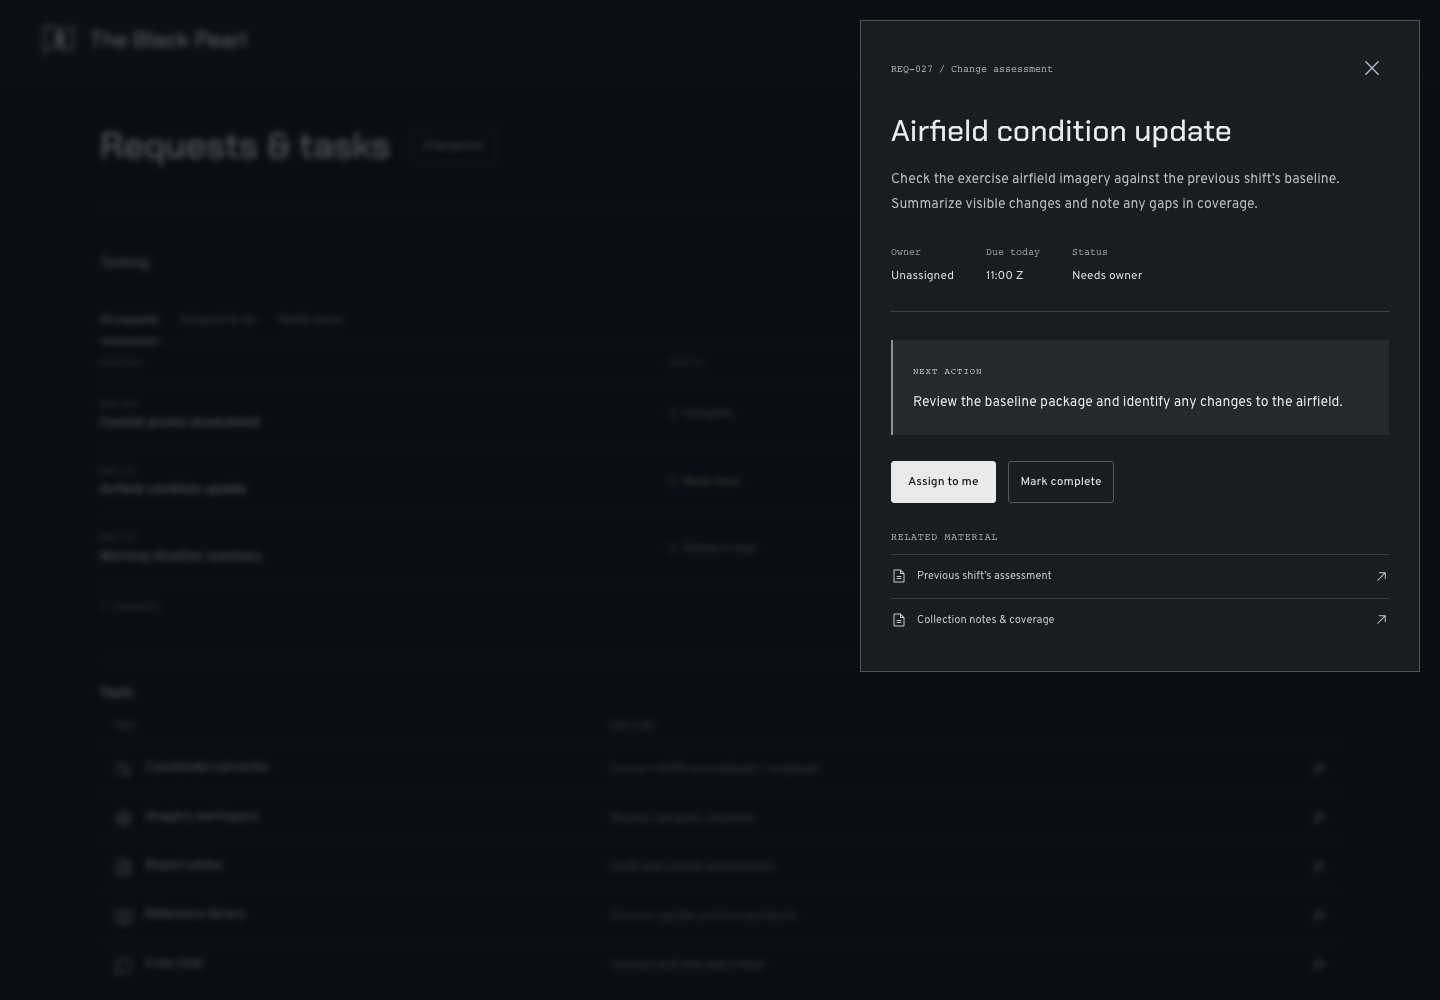
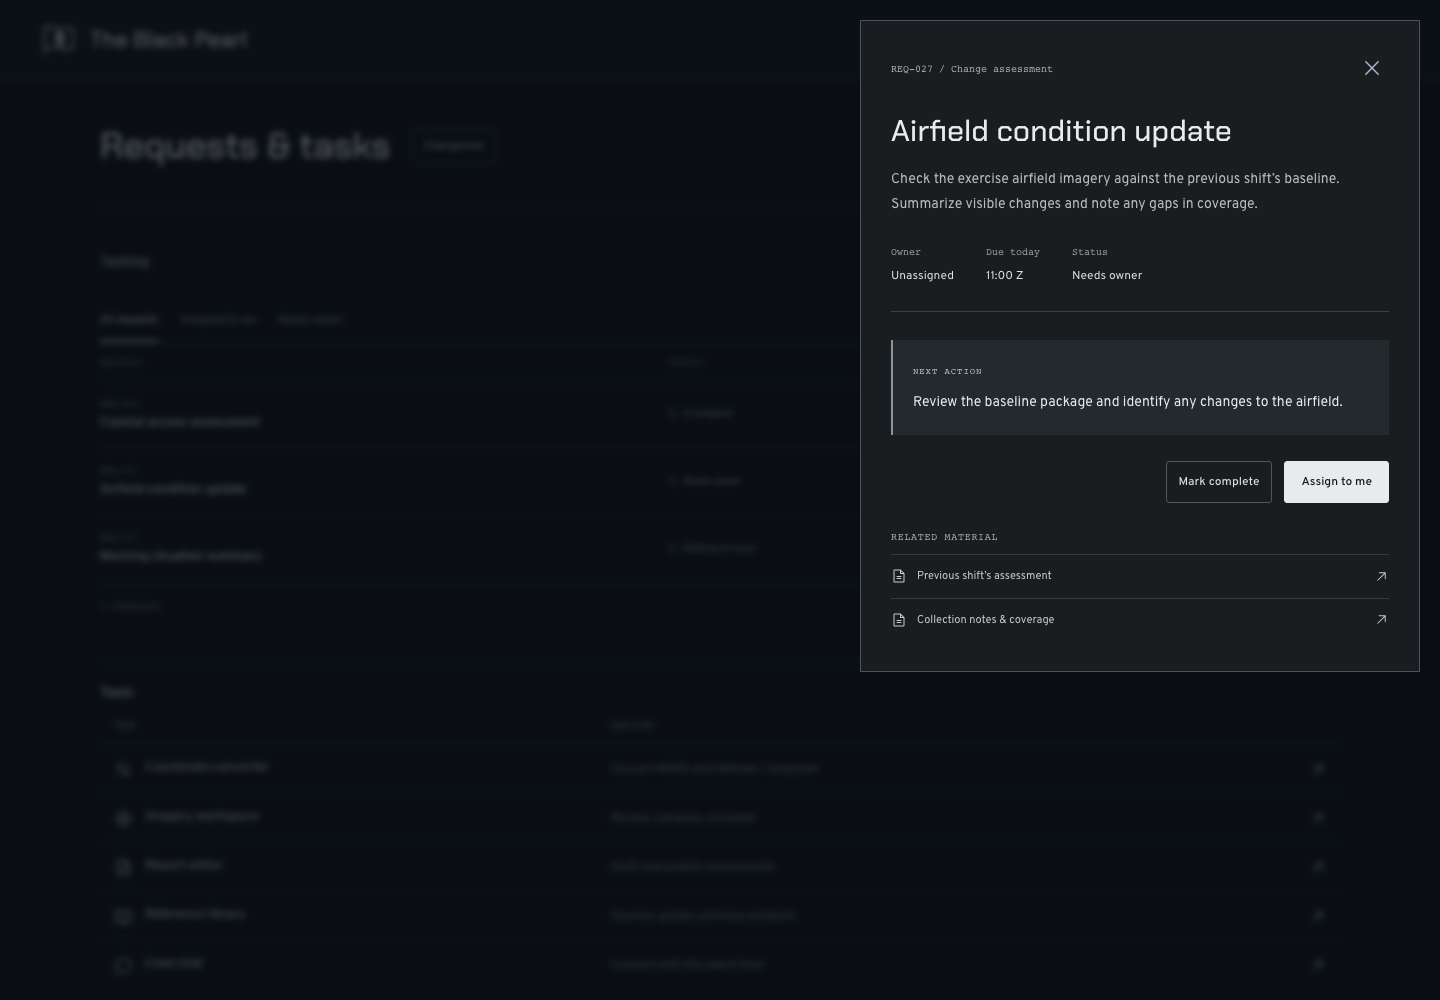
Update Black Pearl task copy, map hover, and action alignment

Changed region(s): [[0.8125, 0.434, 0.9688, 0.527], [0.5938, 0.434, 0.75, 0.527]]

diff --git a/src/components/studies/crew.tsx b/src/components/studies/crew.tsx
@@ -7,7 +7,7 @@ import styles from "./crew.module.css";
 import { CrewClocks, CrewUtilities } from "./crew-utilities";
 
 const requests = [
-  {id:"REQ-024",title:"Coastal access assessment",type:"Imagery review",due:"09:30",owner:"You",status:"In progress",description:"Review the latest imagery package for changes to road access following the exercise weather event. Flag areas where coverage is incomplete.",next:"Compare the two collection windows and attach an annotated summary.",tool:"Imagery workspace"},
+  {id:"REQ-024",title:"Coastal access assessment",type:"Imagery review",due:"09:30",owner:"You",status:"In progress",description:"Review the latest imagery package for changes to road access following the exercise weather event. Flag areas where coverage is incomplete.",next:"Review FMV imagery of the marked coastal area for debris or flooding that could block road access.",tool:"Imagery workspace"},
   {id:"REQ-027",title:"Airfield condition update",type:"Change assessment",due:"11:00",owner:"Unassigned",status:"Needs owner",description:"Check the exercise airfield imagery against the previous shift’s baseline. Summarize visible changes and note any gaps in coverage.",next:"Review the baseline package and identify any changes to the airfield.",tool:"Imagery workspace"},
   {id:"REQ-021",title:"Morning situation summary",type:"Reporting",due:"12:00",owner:"You",status:"Waiting on input",description:"Consolidate the crew’s observations into the morning exercise summary. One supporting assessment is still outstanding.",next:"Review the current draft and confirm the outstanding input with the crew lead.",tool:"Report editor"},
 ];
@@ -51,7 +51,7 @@ export function CrewStudy() {
           {tab==="Overview"&&<>
             <section className={styles.nextTask} aria-labelledby="next-task-title">
               <div className={styles.sectionHead}><h2 id="next-task-title">Up next</h2></div>
-              {nextRequest?<><div className={styles.nextTaskTitle}><h3>{nextRequest.title}</h3><span>Due {nextRequest.due} Z</span></div><p>{nextRequest.next}</p><div className={styles.requestActions}><button className={styles.primary} onClick={()=>setSelected(requests.indexOf(nextRequest))}>Open request<ArrowRight size={16} aria-hidden="true"/></button><button className={styles.secondary} onClick={()=>setTab("Requests")}>All requests</button></div></>:<><h3>You’re caught up.</h3><p>Review the request list for work waiting on input or an owner.</p></>}
+              {nextRequest?<><div className={styles.nextTaskTitle}><h3>{nextRequest.title}</h3><span>Due {nextRequest.due} Z</span></div><p>{nextRequest.next}</p><div className={styles.requestActions}><button className={styles.secondary} onClick={()=>setTab("Requests")}>All requests</button><button className={styles.primary} onClick={()=>setSelected(requests.indexOf(nextRequest))}>Open request<ArrowRight size={16} aria-hidden="true"/></button></div></>:<><h3>You’re caught up.</h3><p>Review the request list for work waiting on input or an owner.</p></>}
               {nextRequest&&<figure className={styles.taskMap} aria-label="Coastal task area" tabIndex={0}><svg viewBox="0 0 480 220" preserveAspectRatio="xMidYMid slice" fill="none" role="img" aria-label="General coastal task area"><defs><pattern id="crew-map-grid" width="40" height="40" patternUnits="userSpaceOnUse"><path d="M40 0H0V40" stroke="#31383a" strokeWidth=".6"/></pattern></defs><rect width="480" height="220" fill="#111719"/><path d="M0 0H301C299 14 278 21 284 33S301 46 287 59S262 67 269 83S282 96 263 109S239 119 247 136S235 160 226 173S219 197 217 220H0Z" fill="#242b2c"/><rect width="480" height="220" fill="url(#crew-map-grid)"/><path d="M301 0C299 14 278 21 284 33S301 46 287 59S262 67 269 83S282 96 263 109S239 119 247 136S235 160 226 173S219 197 217 220" stroke="#738184" strokeWidth="1.3"/><g stroke="#475253" strokeWidth="1"><path d="M38 0C52 27 61 52 91 65S128 85 145 112S181 140 186 164S190 197 196 220M0 118C40 114 60 126 87 107S133 72 163 69S225 91 269 76M82 220C87 192 96 170 119 150S149 120 183 119S227 114 258 103M175 0C164 34 166 60 185 88S217 119 221 152S212 191 217 220"/><path d="M20 32C44 21 56 12 73 21S107 38 98 58M19 175C37 157 54 144 83 159M135 18Q132 33 141 44M119 192Q157 165 175 195" stroke="#354042"/></g><path d="M216 75L269 78 289 111 264 148 212 140 197 107Z" fill="#d4dedd" fillOpacity=".06" stroke="#b3c5c5" strokeDasharray="4 5"/><circle cx="242" cy="112" r="5" fill="#dce7e6"/><circle cx="242" cy="112" r="11" stroke="#dce7e6" strokeOpacity=".45"/><path d="M242 112L313 83H402" stroke="#a5b8b8" strokeWidth=".8"/><text x="317" y="74" fill="#c6d0d0" fontSize="11" fontFamily="sans-serif">Task area</text><path d="M445 43V21M440 27L445 21 450 27" stroke="#a5b1b2"/><text x="441" y="14" fill="#a5b1b2" fontSize="9" fontFamily="sans-serif">N</text></svg><span className={styles.mapHover}>Open map<ArrowUpRight size={17} aria-hidden="true"/></span></figure>}
             </section>
           </>}
@@ -65,7 +65,7 @@ export function CrewStudy() {
       <footer className={styles.footer}><Link href="/work/isr-crew"><ArrowLeft size={14} aria-hidden="true"/>Back to case study</Link><span>Exercise workspace</span></footer>
     </main>
     <dialog ref={changeover} className={styles.toolDialog} aria-label="Changeover"><div className={styles.dialogTop}><span>Changeover · 06:42 Z</span><button aria-label="Close changeover" onClick={()=>changeover.current?.close()}><X size={22}/></button></div><h2>From the night crew</h2><p>Coastal imagery is ready. The airfield review still needs an owner, and the morning summary is waiting on one assessment.</p><button className={styles.primary} onClick={()=>{setAck(true);changeover.current?.close();}}><Check size={16}/>{ack?"Reviewed":"Mark as reviewed"}</button></dialog>
-    <dialog ref={details} className={styles.detailDialog} onClose={()=>setSelected(null)} aria-labelledby="request-title">{request&&<><div className={styles.dialogTop}><span>{request.id} / {request.type}</span><button aria-label="Close request" onClick={()=>setSelected(null)}><X size={22}/></button></div><h2 id="request-title">{request.title}</h2><p className={styles.description}>{request.description}</p><dl className={styles.properties}><div><dt>Owner</dt><dd>{owner(request)}</dd></div><div><dt>Due today</dt><dd>{request.due} Z</dd></div><div><dt>Status</dt><dd>{status(request)}</dd></div></dl><div className={styles.next}><span>NEXT ACTION</span><p>{complete.includes(request.id)?"Assessment complete. Your update is ready for the next crew.":request.next}</p></div><div className={styles.detailActions}>{owner(request)==="Unassigned"?<button className={styles.primary} onClick={()=>setClaimed(true)}>Assign to me</button>:<button className={styles.primary} onClick={()=>setTool(request.tool)}>Open {request.tool.toLowerCase()}<ArrowUpRight size={16} aria-hidden="true"/></button>}<button className={styles.secondary} onClick={()=>setComplete(complete.includes(request.id)?complete.filter(id=>id!==request.id):[...complete,request.id])}>{complete.includes(request.id)?"Reopen request":"Mark complete"}</button></div><div className={styles.references}><h3>Related material</h3>{["Previous shift’s assessment","Collection notes & coverage"].map(t=><button key={t} onClick={()=>setTool(t)}><FileText size={16} aria-hidden="true"/>{t}<ArrowUpRight size={15} aria-hidden="true"/></button>)}</div></>}</dialog>
+    <dialog ref={details} className={styles.detailDialog} onClose={()=>setSelected(null)} aria-labelledby="request-title">{request&&<><div className={styles.dialogTop}><span>{request.id} / {request.type}</span><button aria-label="Close request" onClick={()=>setSelected(null)}><X size={22}/></button></div><h2 id="request-title">{request.title}</h2><p className={styles.description}>{request.description}</p><dl className={styles.properties}><div><dt>Owner</dt><dd>{owner(request)}</dd></div><div><dt>Due today</dt><dd>{request.due} Z</dd></div><div><dt>Status</dt><dd>{status(request)}</dd></div></dl><div className={styles.next}><span>NEXT ACTION</span><p>{complete.includes(request.id)?"Assessment complete. Your update is ready for the next crew.":request.next}</p></div><div className={styles.detailActions}><button className={styles.secondary} onClick={()=>setComplete(complete.includes(request.id)?complete.filter(id=>id!==request.id):[...complete,request.id])}>{complete.includes(request.id)?"Reopen request":"Mark complete"}</button>{owner(request)==="Unassigned"?<button className={styles.primary} onClick={()=>setClaimed(true)}>Assign to me</button>:<button className={styles.primary} onClick={()=>setTool(request.tool)}>Open {request.tool.toLowerCase()}<ArrowUpRight size={16} aria-hidden="true"/></button>}</div><div className={styles.references}><h3>Related material</h3>{["Previous shift’s assessment","Collection notes & coverage"].map(t=><button key={t} onClick={()=>setTool(t)}><FileText size={16} aria-hidden="true"/>{t}<ArrowUpRight size={15} aria-hidden="true"/></button>)}</div></>}</dialog>
     <dialog ref={toolDialog} className={`${styles.toolDialog} ${styles.launchDialog}`} onClose={()=>setTool(null)} aria-label={tool||"Tool preview"}><div className={styles.dialogTop}><h2>{tool}</h2><button aria-label="Close tool preview" onClick={()=>setTool(null)}><X size={22}/></button></div>{tool==="Coordinate converter"?<CrewUtilities embedded />:tool==="Tools"?<><p>Only available in the working app.</p><button className={styles.primary} onClick={()=>setTool(null)}>Got it</button></>:<>{request&&<p>{request.id} · {request.title}</p>}<p>This preview keeps you in The Black Pearl. The connected workspace would open the selected tool{request?" with this request’s context":""}.</p><button className={styles.primary} onClick={()=>setTool(null)}>Back to crew page</button></>}</dialog>
   </div>;
 }

diff --git a/src/components/studies/crew.module.css b/src/components/studies/crew.module.css
@@ -56,12 +56,12 @@
 @media(max-width:800px){.layout{grid-template-columns:1fr;gap:40px;}.launcher{padding-top:0;border:0;}.toolList{grid-template-columns:repeat(2,minmax(0,1fr));column-gap:24px;}.heading h1{font-size:38px;}}
 @media(max-width:550px){.main{padding-top:32px;}.heading{display:flex;align-items:end;margin-bottom:32px;}.heading h1{font-size:38px;}.handoffSimple>p{font-size:17px;}.nextTaskTitle h3{font-size:25px;}.layout{margin-bottom:40px;}.toolList,.toolsOnly .toolList{grid-template-columns:1fr;}.tasking table{min-width:440px;}.tableWrap{max-width:100%;margin-right:0;}.detailDialog{padding:22px;}}
 
-@font-face{font-family:"Pearl UI";src:url("/fonts/ibm-plex-sans.ttf") format("truetype");font-weight:100 700;font-display:swap}
+
 @font-face{font-family:"Pearl Display";src:url("/fonts/chakra-petch.ttf") format("truetype");font-weight:400;font-display:swap}
-.app{font-family:"Pearl UI",Arial,sans-serif;}
+.app{font-family:"Pearl Sans",Arial,sans-serif;}
 .brand,.header nav button,.heading h1,.nextTaskTitle h3,.detailDialog h2,.toolDialog h2{font-family:"Pearl Display",sans-serif;font-weight:400;letter-spacing:0;}
-.brand{font-size:22px;}.header nav button{font-size:14px;}.heading h1{font-size:42px;line-height:1.15;}.heading p{font-family:"Pearl UI",Arial,sans-serif;}
-.sectionHead h2{font-family:"Pearl UI",Arial,sans-serif;font-weight:500;}
+.brand{font-size:22px;}.header nav button{font-size:14px;}.heading h1{font-size:42px;line-height:1.15;}.heading p{font-family:"Pearl Sans",Arial,sans-serif;}
+.sectionHead h2{font-family:"Pearl Sans",Arial,sans-serif;font-weight:500;}
 @media(max-width:550px){.brand{font-size:20px;}.heading h1{font-size:36px;}}
 
 /* Anchor the three working areas without adding more information. */
@@ -123,3 +123,9 @@
 .brandMark{display:block;width:38px;height:38px;flex:0 0 38px;overflow:visible}.brand{align-items:center}@media(max-width:550px){.brandMark{width:32px;height:32px;flex-basis:32px}}
 @media(min-width:801px){.nextTask>.taskMap{align-self:stretch;min-height:220px;position:relative}.taskMap>svg{position:absolute;inset:0;width:100%;height:100%}.taskMap .mapHover{top:50%}}
 .app{font-family:"Pearl Sans",Arial,sans-serif;font-weight:400}.app input,.app select{font-family:inherit}
+
+.taskMap .mapHover{inset:auto 0 0;transform:none;justify-content:flex-end;gap:9px;padding:32px 18px 15px;border:0;border-radius:0;background:linear-gradient(transparent,rgba(8,14,17,.88));color:#f0f4f5;font-size:12px;font-weight:500;letter-spacing:.01em;pointer-events:none}.taskMap:hover svg{filter:none}
+/* A map affordance, not a floating button. */
+.taskMap .mapHover{inset:auto 18px 16px auto;width:auto;padding:0;min-height:0;background:none;border:0;box-shadow:none;border-radius:0;font-family:"Pearl Sans",Arial,sans-serif;font-size:13px;font-weight:400;letter-spacing:0;line-height:1.4;text-shadow:0 1px 5px #000}.taskMap::after{content:"";position:absolute;inset:55% 0 0;background:linear-gradient(transparent,rgba(8,14,17,.72));opacity:0;pointer-events:none;transition:opacity .16s}.taskMap:hover::after,.taskMap:focus-visible::after{opacity:1}.taskMap .mapHover{z-index:1}.taskMap .mapHover svg{position:static;width:15px;height:15px}
+/* Action groups follow secondary → primary order in both DOM and layout. */
+.requestActions,.detailActions{justify-content:flex-end}.toolDialog>.primary{display:flex;width:fit-content;margin-left:auto}.launchDialog>.primary{margin-left:auto;margin-right:24px}
